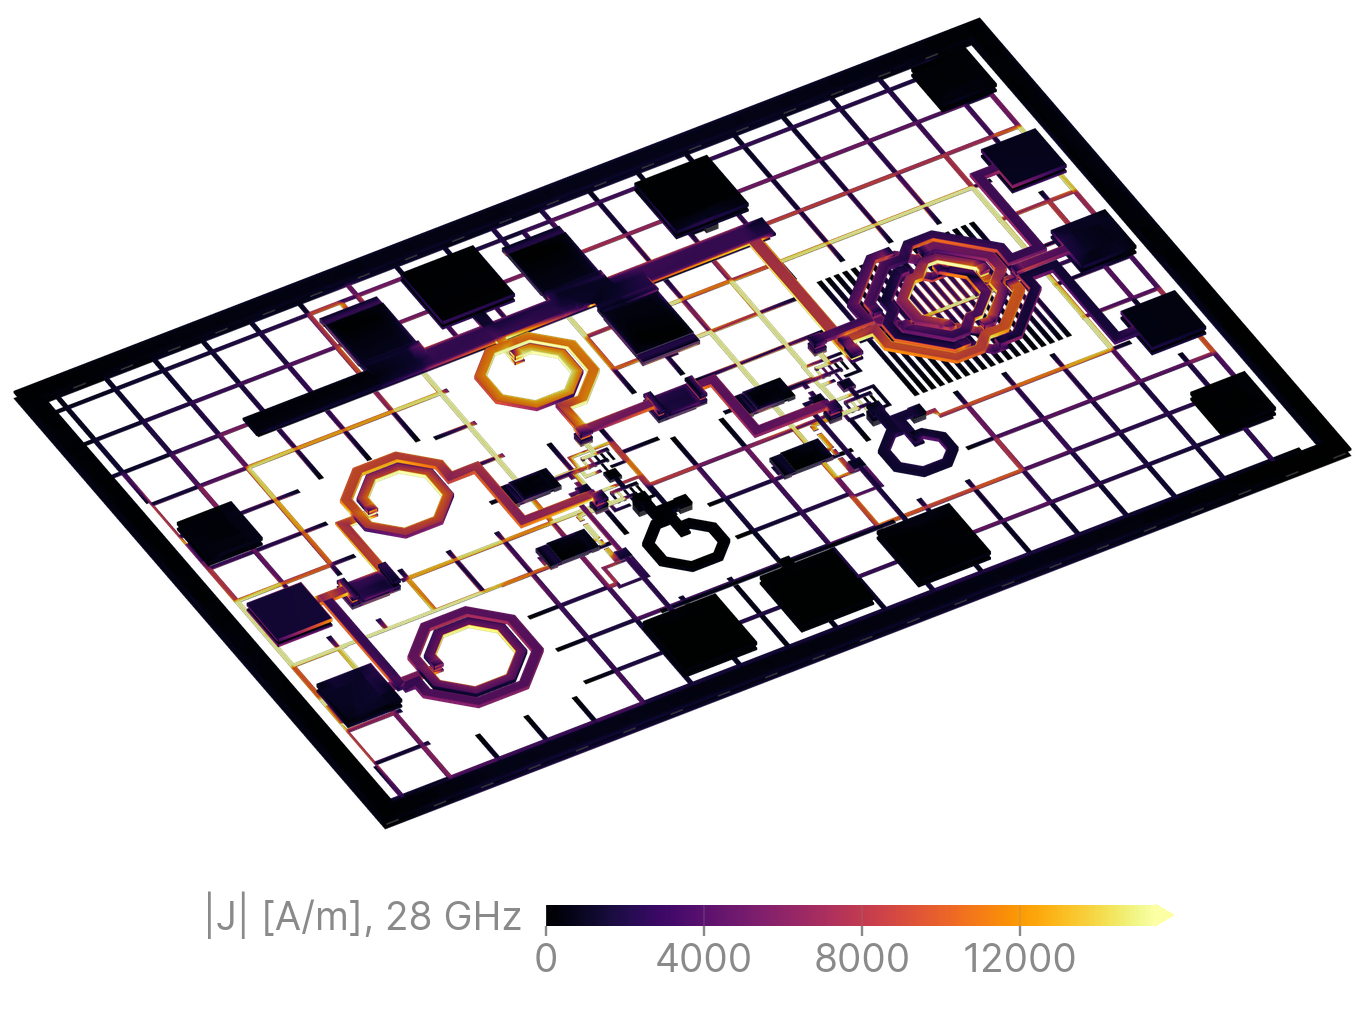
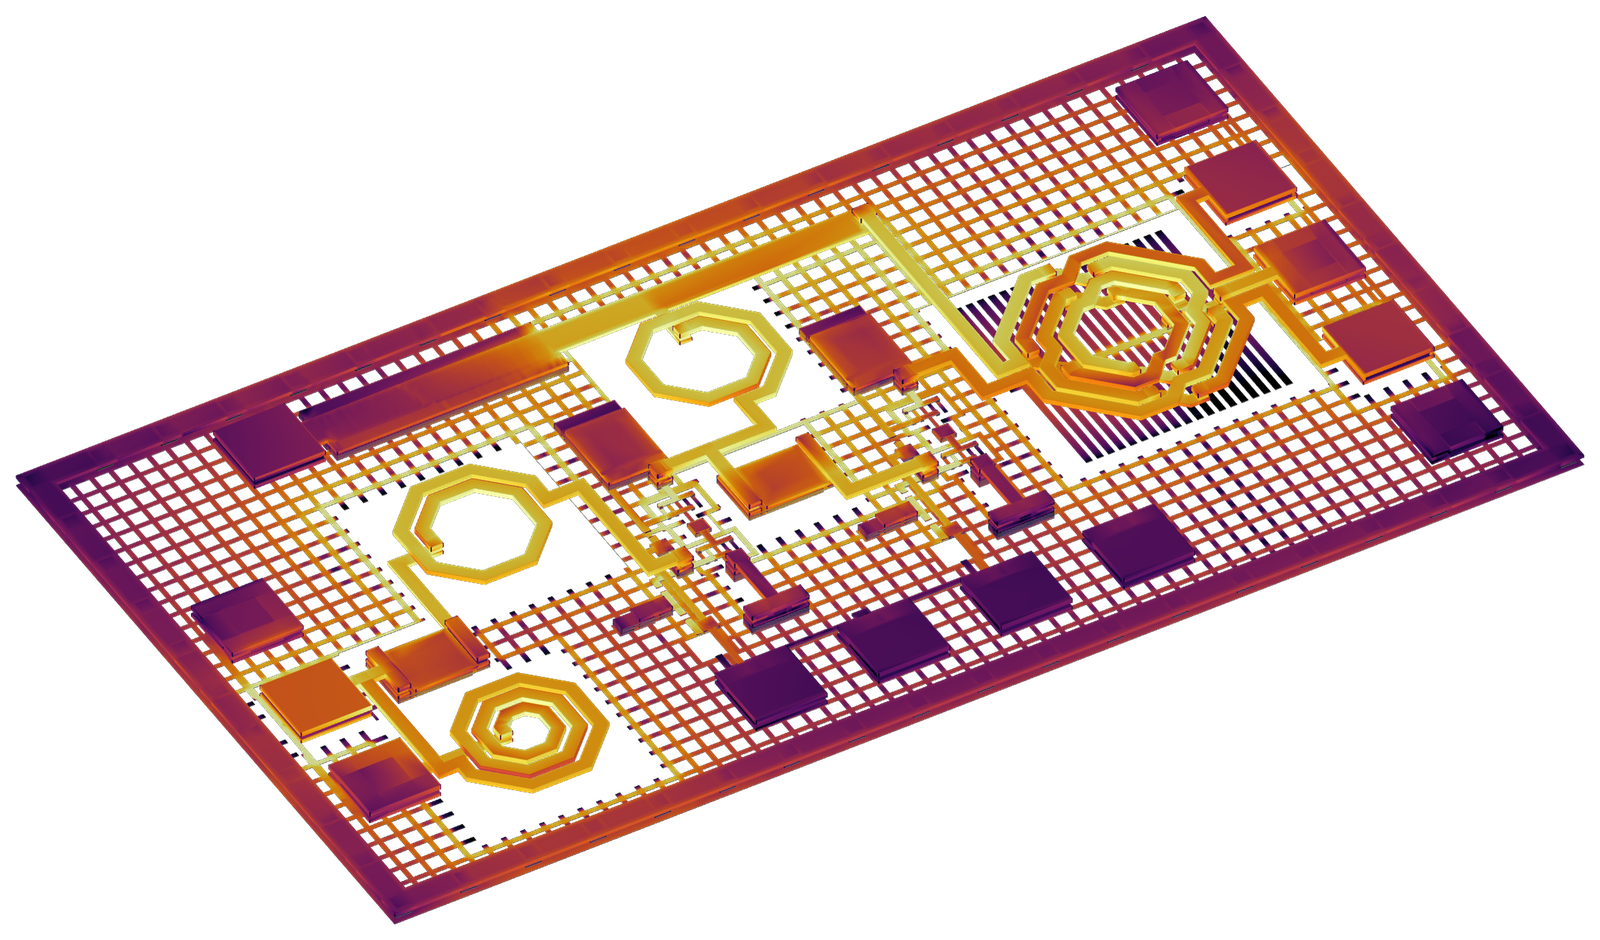
RapidMoM: the LNA on the current solver, current density on a log scale

diff --git a/src/content/stack/rapidmom.md b/src/content/stack/rapidmom.md
@@ -39,14 +39,14 @@ prob.show(res)                                               # mesh and currents
 ![LNA, current density at 28 GHz|57x22|contain](/images/rapidmom-lna-current.png)
 
 A synthetic two-stage cascode LNA with a transformer balun at 28 GHz on IHP
-SG13G2, 799 x 532 um on all seven metal levels: pads, spirals, capacitor
+SG13G2, 749 x 413 um on all seven metal levels: pads, spirals, capacitor
 stacks, bias and supply lines and a ground grid. Transistors, current mirrors
 and resistors are ports, 23 in all. TopMetal1 and TopMetal2 run as
 faces+walls/faces+walls, Metal5 as shared/faces and Metal1 to Metal4 as
-mid/mid, 63,624 unknowns. The adaptive sweep from DC to 40 GHz over 161
-frequencies took 19 exact solves and 28 min, 30.3 GB peak, on 8 threads of an
-AMD Ryzen 9 9900X. The current density is the exact solve at 28 GHz with the
-input and both stage outputs driven.
+mid/mid, 79,078 unknowns. The adaptive sweep from DC to 40 GHz over 161
+frequencies took 68 exact solves and 2 h 37 min, 36.4 GB peak, on 16 threads
+of an AMD Ryzen 9 9900X. The current density, on a log scale, is the exact
+solve at 28 GHz with the input and both stage outputs driven.
 
 ## Conductor model and adaptive sweep
 
